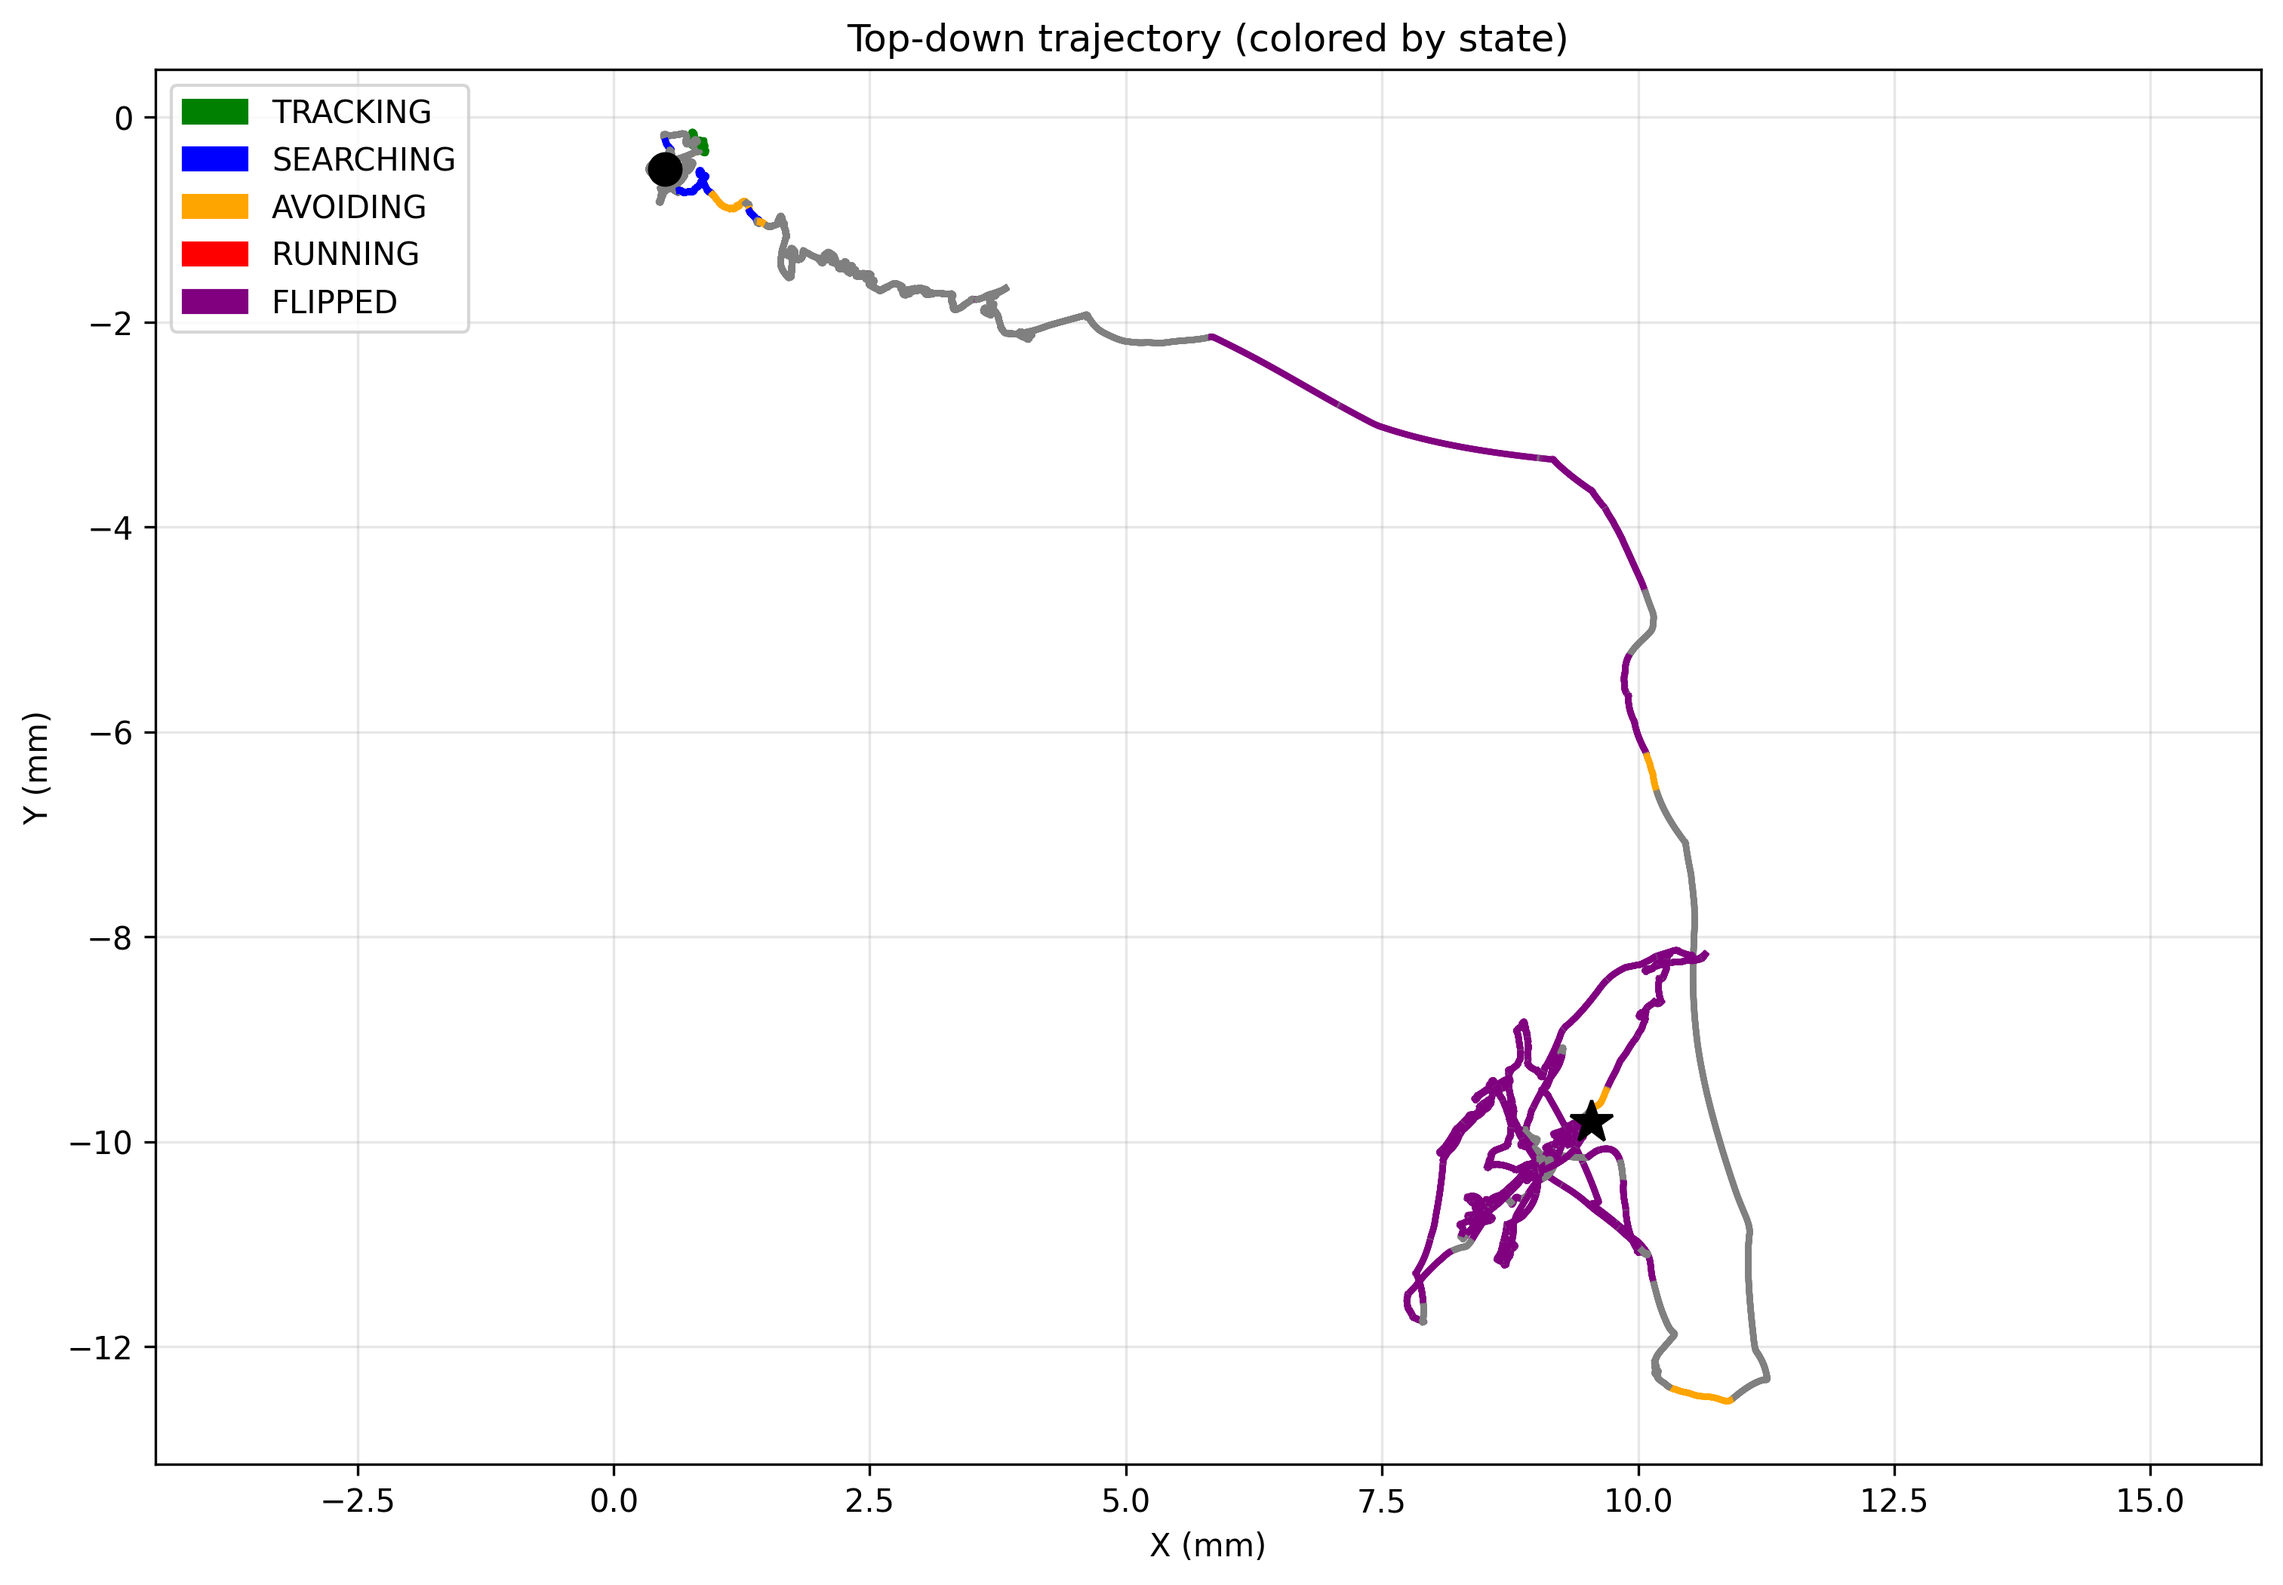
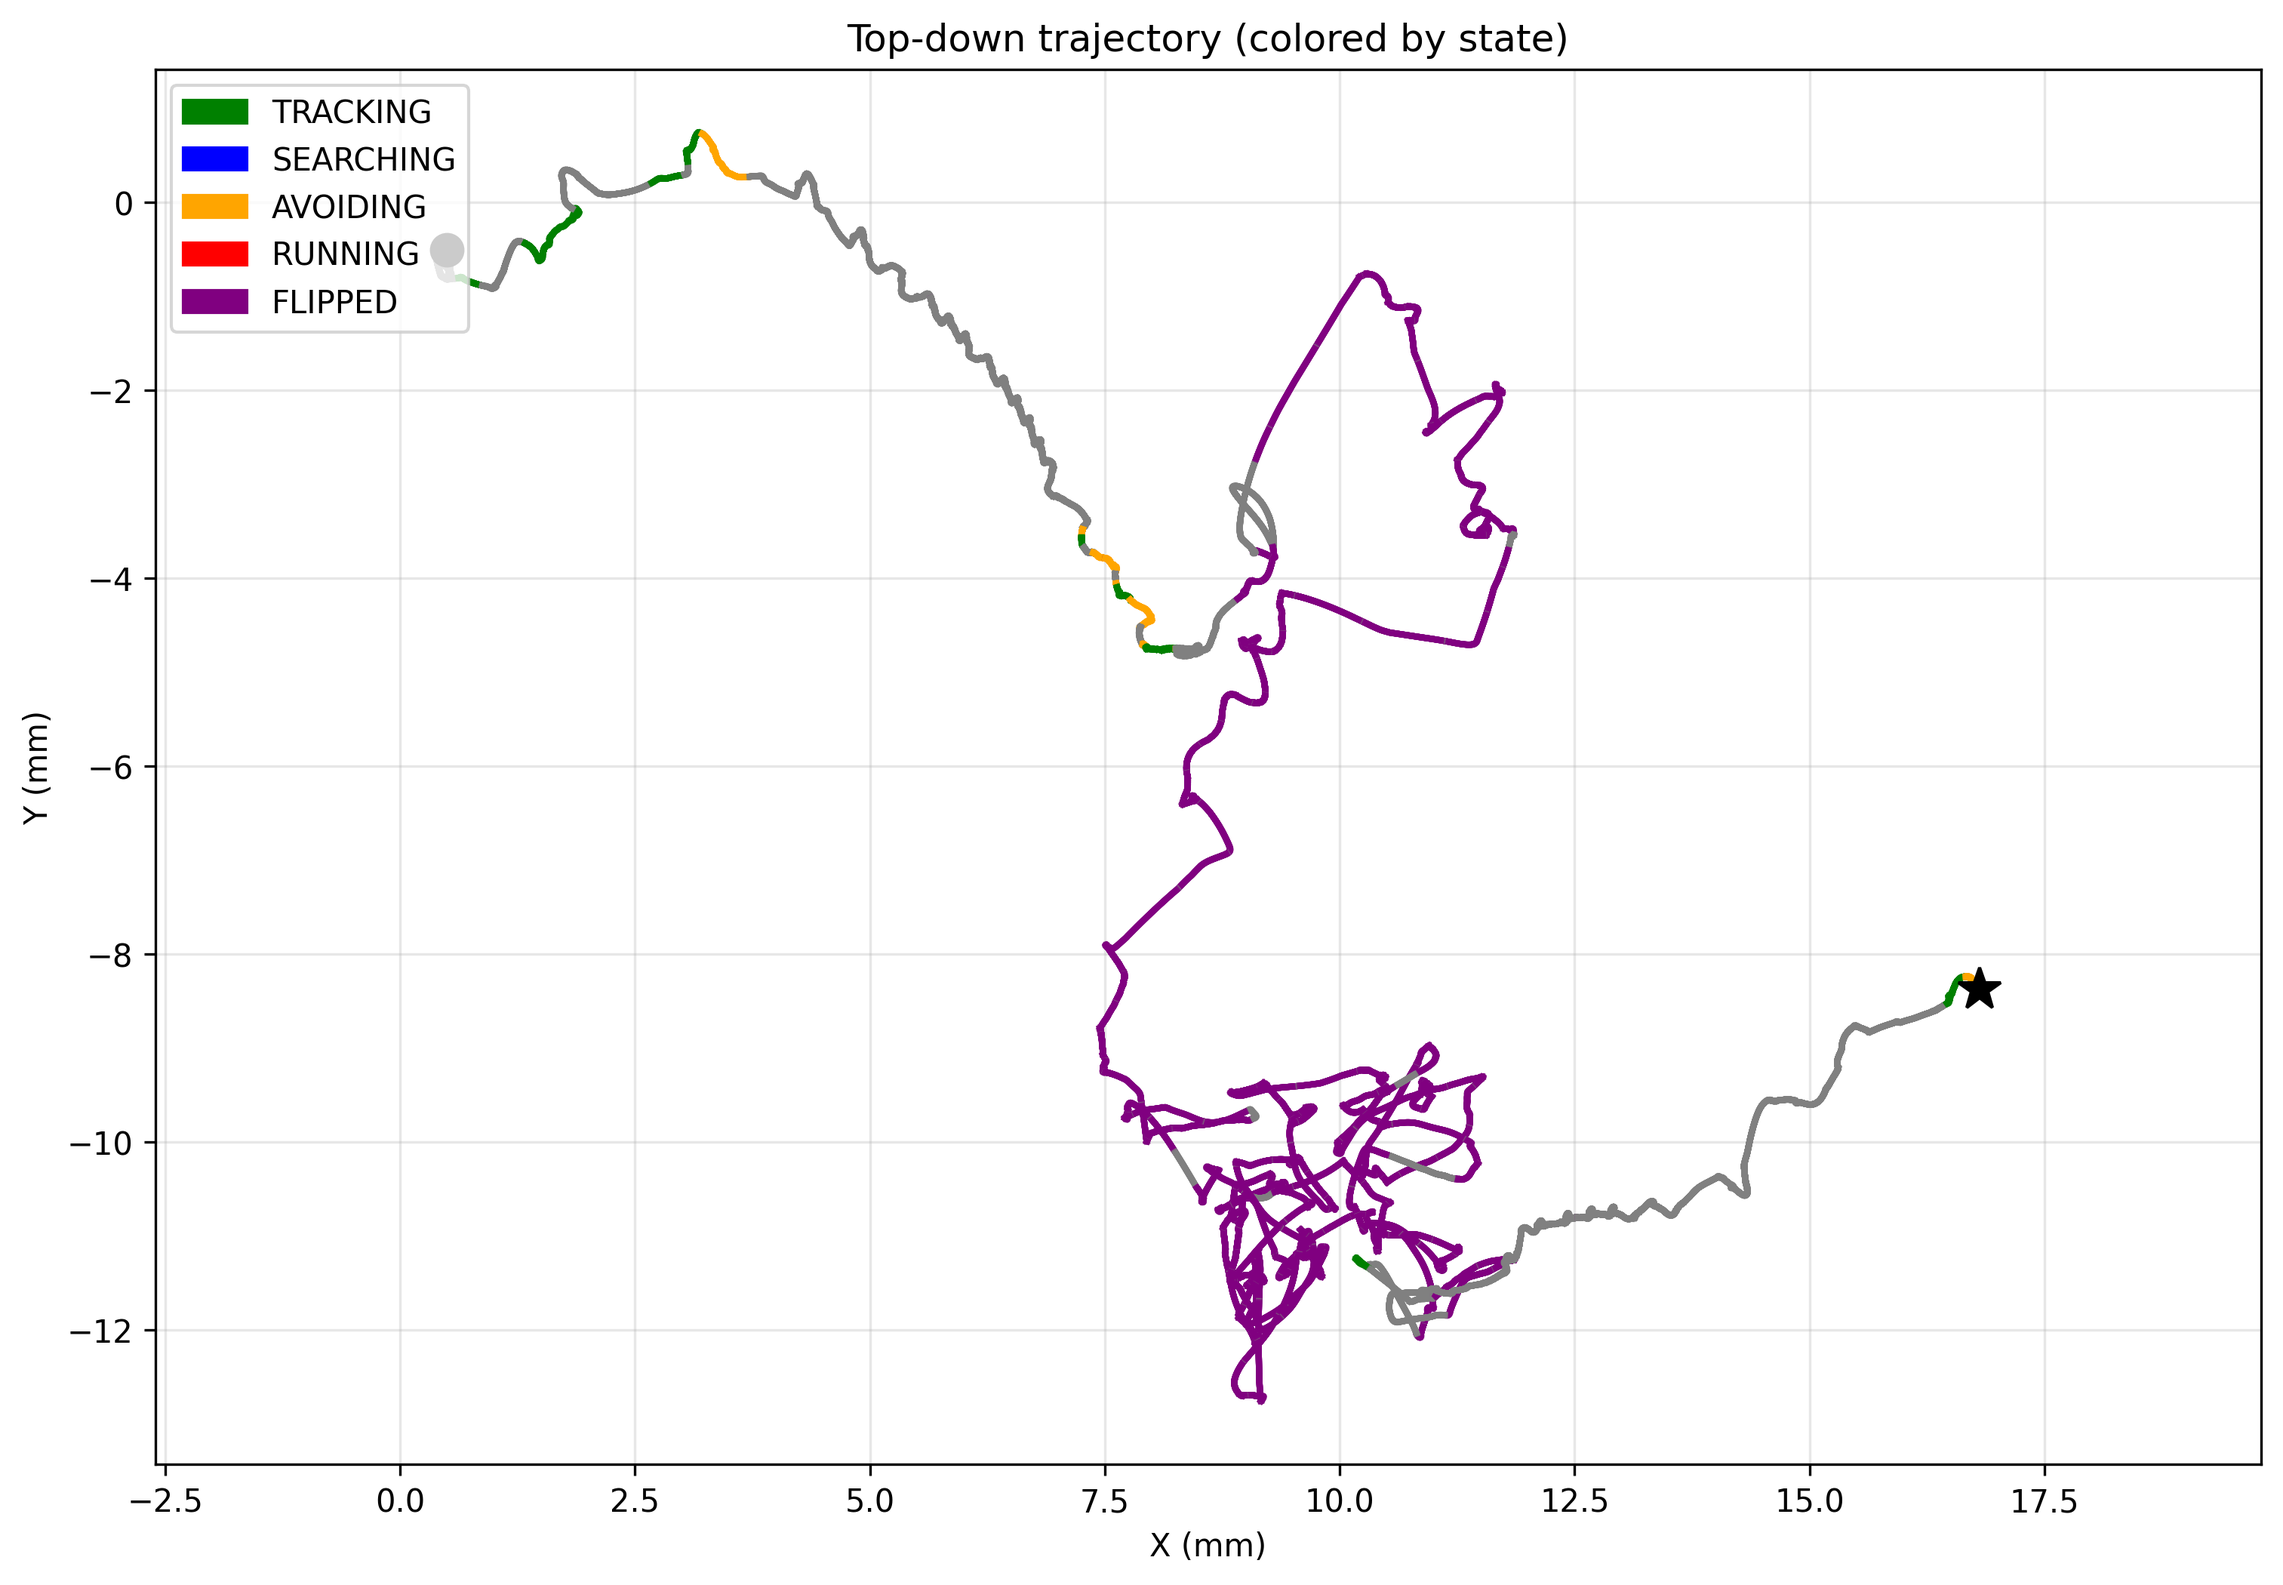
c'est ok

diff --git a/miniproject/submission/controller.py b/miniproject/submission/controller.py
@@ -6,7 +6,6 @@ from scipy.spatial.transform import Rotation
 from flygym.examples.locomotion import TurningController
 import matplotlib.pyplot as plt
 
-from flygym.compose import ActuatorType # pour se relever
 
 
 RED = 0
@@ -190,7 +189,7 @@ class Controller:
         self.last_odor_drives = np.ones(2)
         self.odor_state = "LOST"      # "FOUND", "LOST"
         self.prev_state = "LOST"
-        self.LOST_THRESHOLD = 12     # from paper, 25-38 steps
+        self.LOST_THRESHOLD = 50    # from paper, 25-38 steps
         #self.RECOVERING_THRESHOLD = 12 
         self.odor_memory_fast = 0.0        # drives turn decisions
         self.alpha_fast = 2/(8+1)   # ~0.22
@@ -239,23 +238,11 @@ class Controller:
         if steps_since_odor <= self.LOST_THRESHOLD: 
             self.odor_state = "FOUND"
         else: # we lost the smell for too long          
-            if self.wind_state != "SILENT": #wind is not forward, so the source is still where we smelled it last
-                #self.odor_drives = self.last_odor_drives
+            if self.wind_state != "SILENT" and self.odor_state == "FOUND" : #wind is not forward, so the source is still where we smelled it last
                 self.odor_state = "STILL_HOPE"
-                #self.general_state = "BLIND FOLLOWING"
             else : 
-                #self.odor_drives = np.array([1.5, 0.5])  # lean right
-                #self.odor_drives = 0.5*self.odor_drives 
                 self.odor_state = "LOST"
-                '''
-                if (self.count // 50000) % 2 == 0:
-                    self.odor_drives = np.array([1.5, 0.5])  # lean right
-                    print('leaning right because I am lost')
-                else:
-                    self.odor_drives = np.array([0.5, 1.5])  # lean left
-                    print('leaning left because I am lost')
-                '''
-            # even with forward wind we do not smell it, it is really lost, need to search again, we slow down to find it before moving again
+                # even with forward wind we do not smell it, it is really lost, need to search again, we slow down to find it before moving again
             
 
         if self.odor_state != self.prev_state: # change of state
@@ -348,10 +335,9 @@ class Controller:
         elif self.odor_state == "FOUND":
             self.general_state = "TRACKING"
 
-        elif self.general_state == "BLIND FOLLOWING" and self.odor_state == "FOUND" :# make CLEAN
+        elif self.odor_state == "STILL HOPE" :# make CLEAN
             self.general_state = "BLIND FOLLOWING"
         
-
         else:
             self.general_state = "SEARCHING"
 
@@ -370,6 +356,7 @@ class Controller:
         if self.escape_timer == 0:
             self.stuck = False
 
+        
         if self.avoidance_dragonfly_timer > 0:
             self.avoidance_dragonfly_timer -= 1
 
@@ -379,21 +366,26 @@ class Controller:
         # if self.escape_timer < 30 and self.avoiding_obstacle == False :
         #     self.stuck = False
 
+            self.avoidance_direction = 0
+            self.no_turn()
+
+
 
         # Behaviour according to state of the fly
 
         if self.general_state == "FLIPPED" :
             # tries to get back up
             
-            self.speed = SUSPICIOUS * 10
-            self.k = TURN_COEFF * 4
+            self.speed = SUSPICIOUS * 2
+            self.k = TURN_COEFF * 2
+
             action_drives = np.array([2.0, 0.0])
             
             
 
         elif self.general_state == "RUNNING" :
             # running away from dragonfly
-            self.speed = SUSPICIOUS * 3
+            self.speed = SUSPICIOUS * 1.5
             self.k = 1
             action_drives = np.array([1.0, 1.0])   
 
@@ -422,7 +414,7 @@ class Controller:
 
             #action_drives = np.array([0.1, 2.5])
 
-            self.speed = SUSPICIOUS*0.5
+            self.speed = SUSPICIOUS*1
 
         elif self.general_state == "TRACKING" :
             self.speed = SUSPICIOUS
@@ -435,7 +427,7 @@ class Controller:
             action_drives = self.last_odor_drives # follow last known good direction 
 
         else:  # SEARCHING
-            self.speed = SUSPICIOUS * 0.5  # slow down to cast around
+            self.speed = SUSPICIOUS * 0.7  # slow down to cast around
             self.k = 1
             
             if self.odor_state == "STILL_HOPE":
@@ -445,28 +437,25 @@ class Controller:
                 self.k = TURN_COEFF * 1.5
                 action_drives = np.array([2.0, -1.0])
 
-            """
-            self.odor_drives = np.array([1.5, 0.5])  # lean right
-            action_drives = 0.5*self.odor_drives 
-            """
-                        # slow down situations to avoid getting flipped, no matter the state
-  
         
+        
+        # slow down situations to avoid getting flipped, no matter the state
         
         if self.current_slope_category == "carreful_upsidedown": # FAIRE AUTRES ROTATIONS
             self.speed = self.speed * 0.6  # almost stop, let physics stabilize
             if not(self.general_state == "FLIPPED") : self.general_state = "SLOPE"
-        """
+        
         if self.wind_state == "SIDE":
             self.speed = self.speed* 0.7 # quand à 0.1 elle se fait moins boloss par le vent
             #print('stopped because Im scared to fall')
             self.general_state = "SIDE WIND"
-        """
+        
 
         if self.current_slope_category == "carreful_upsidedown" and self.wind_state == "SIDE":
             self.speed = self.speed* 0 # quand à 0.1 elle se fait moins boloss par le vent
             #print('stopped because Im scared to fall')
             self.general_state = "SIDE WIND"
+            
     
 
 
@@ -561,6 +550,8 @@ class Controller:
 
             else:
                 self.consecutive_detections = 0
+        else : 
+            self.avoiding_obstacle = False
 
 
                     
